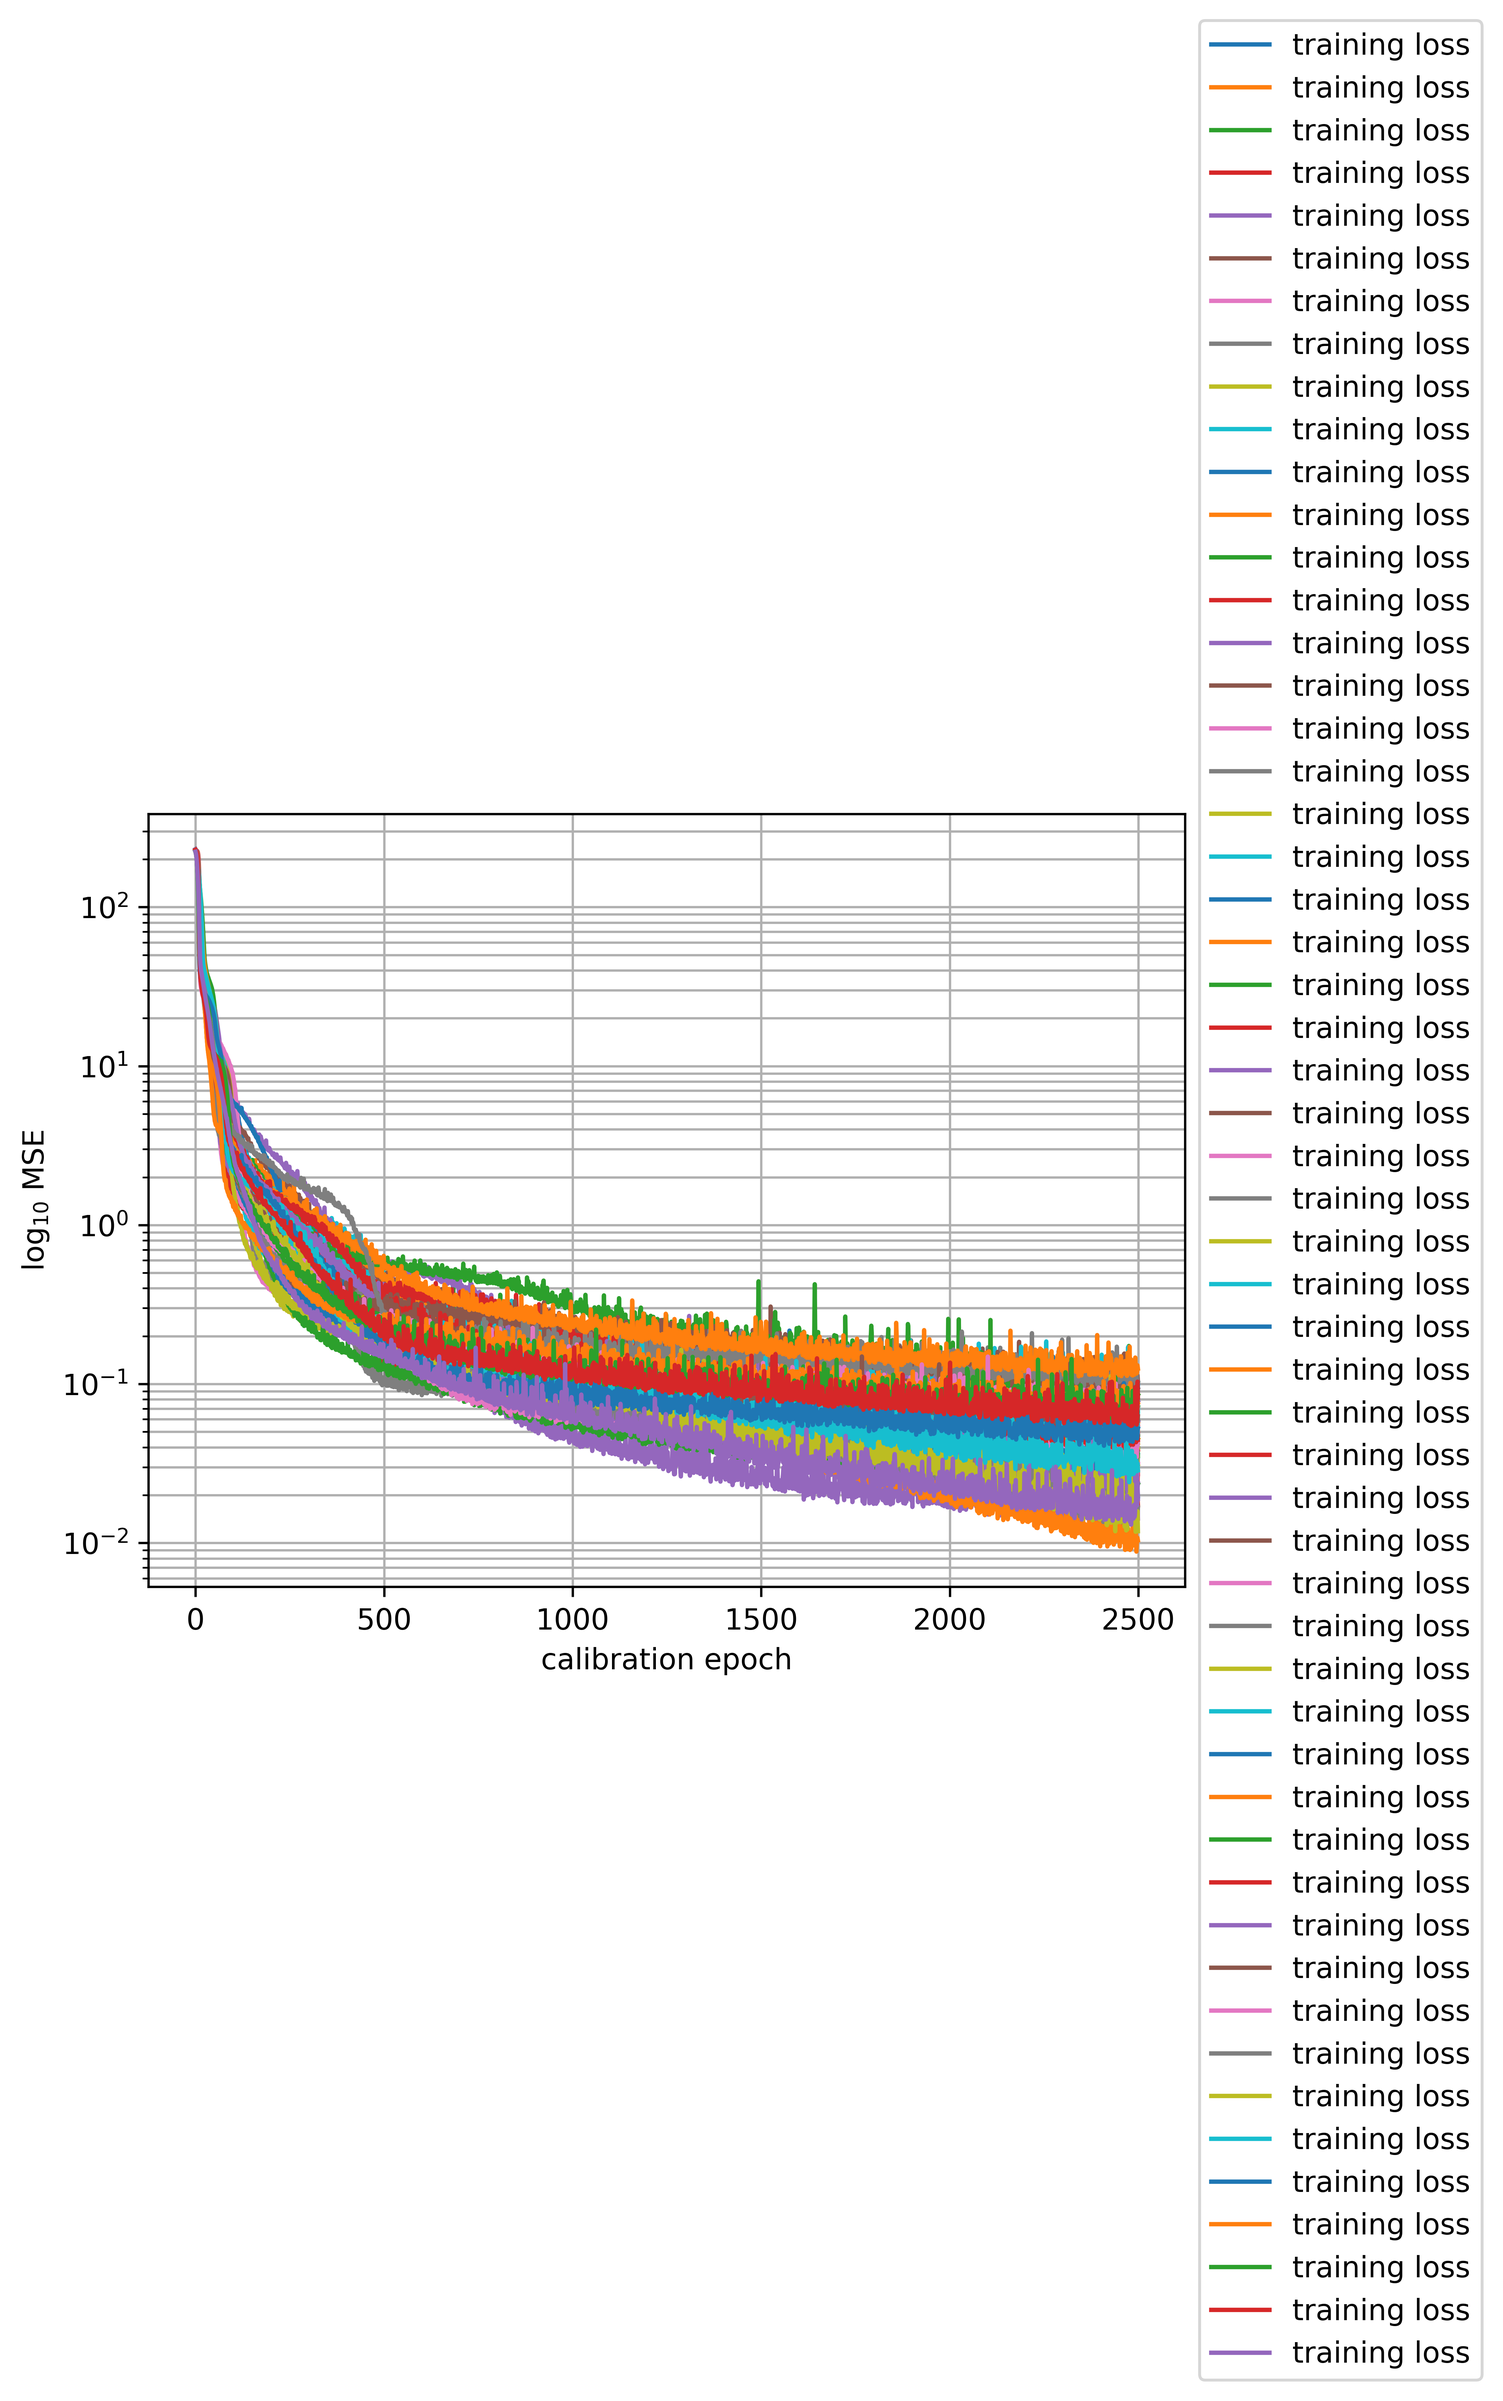
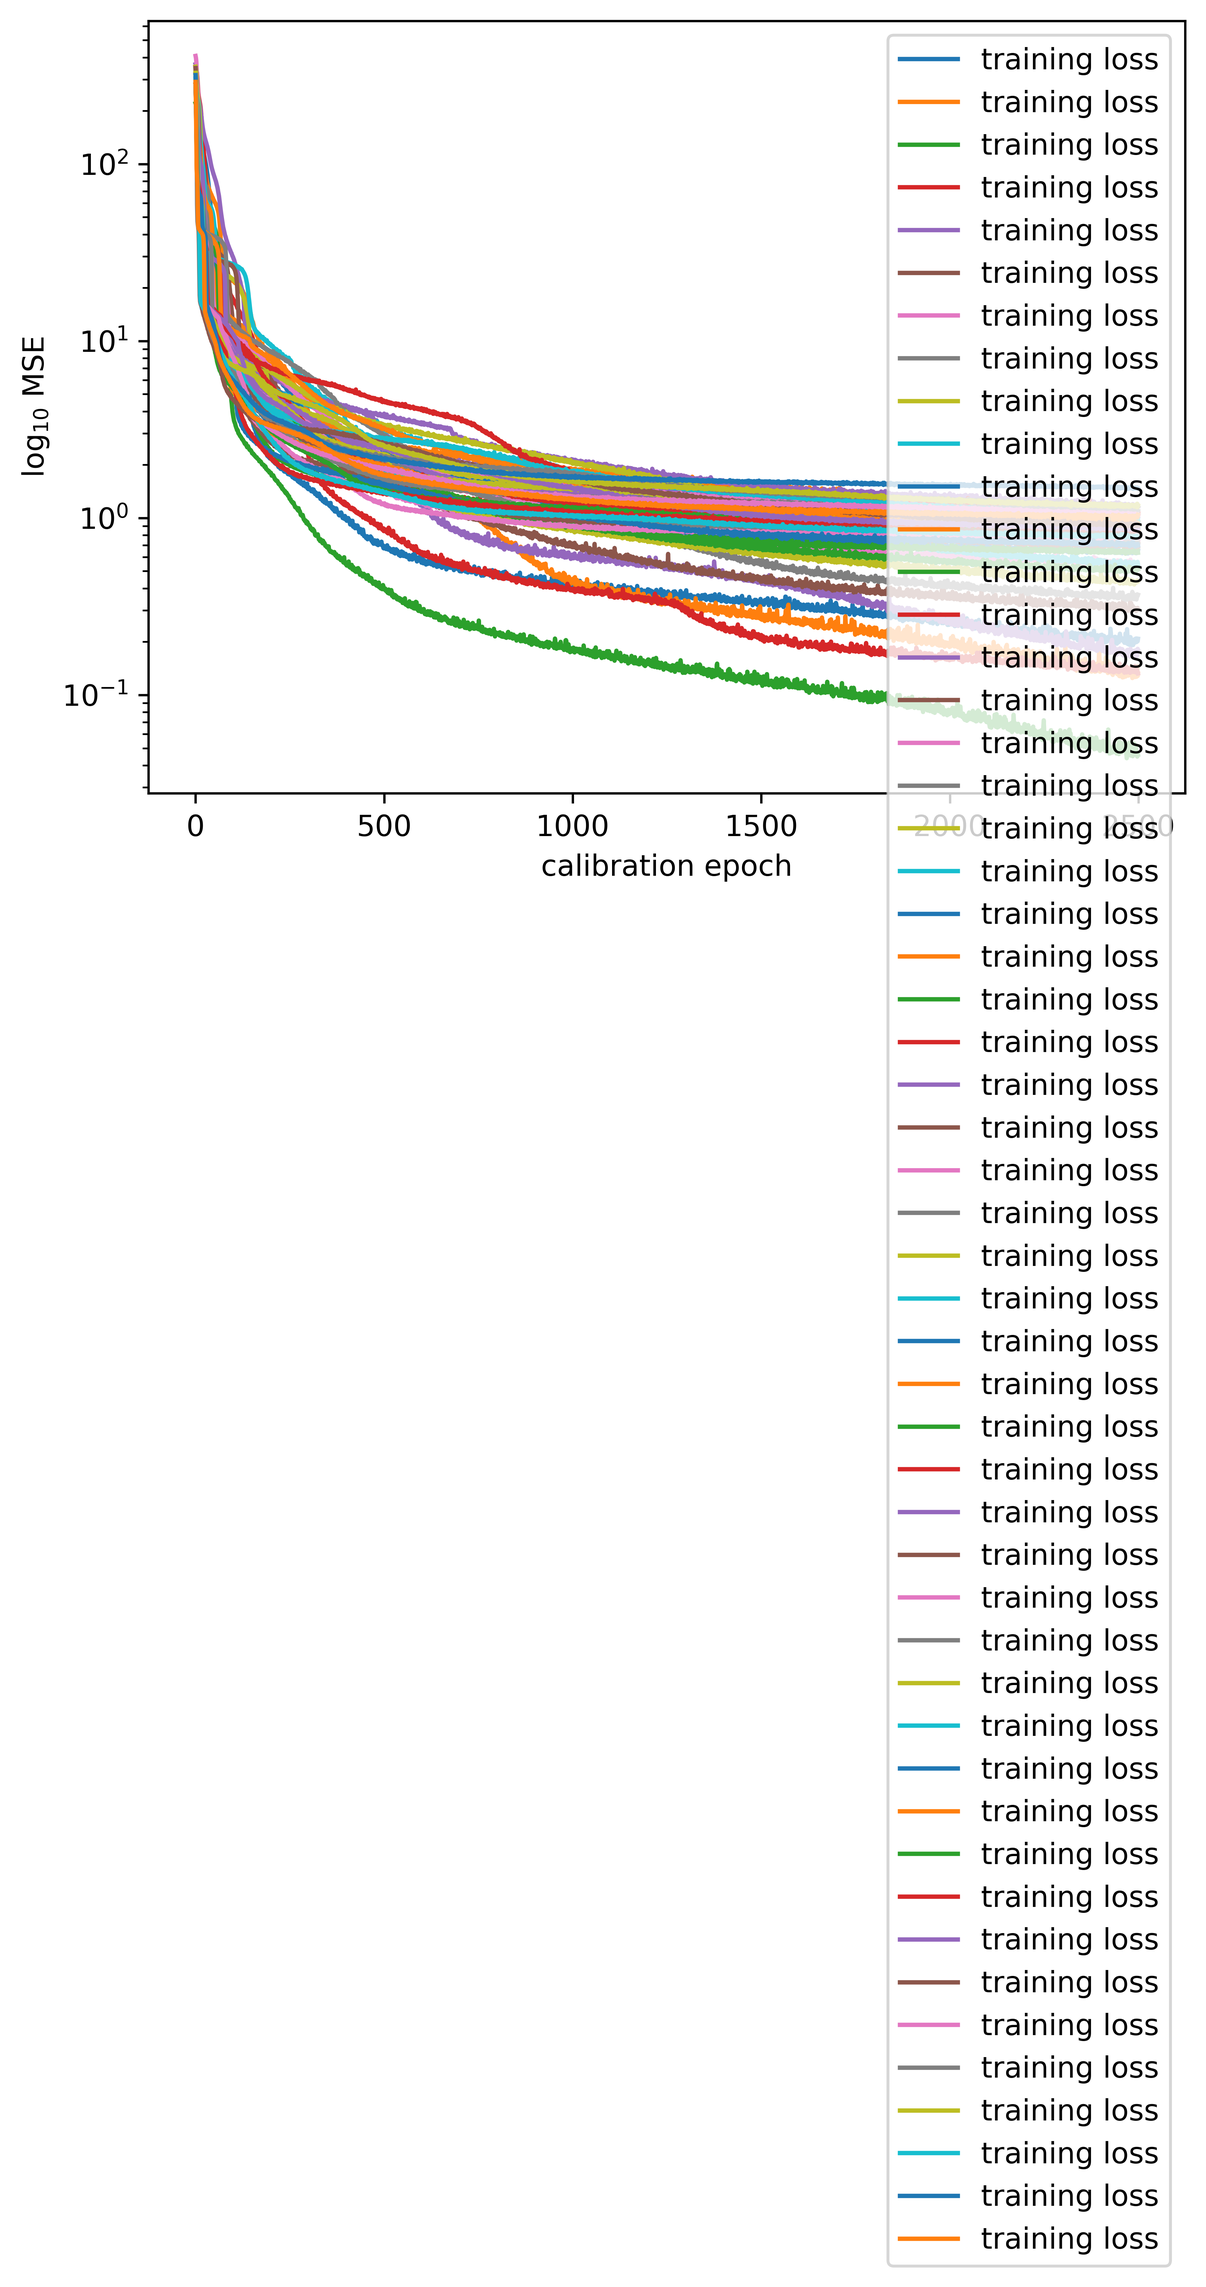
Reworking of training.py, correction of smaller error

diff --git a/Task_02/02_hyperelasticity_I/training.py b/Task_02/02_hyperelasticity_I/training.py
@@ -13,30 +13,31 @@ import data as ld
 # %% class definition
 class PhysicsAugmented:
     ''' Class for training a physics augmented neutral network
-    calling order: initialize --> load --> preprocess --> calibrate --> evaluate '''
-    def __init__(self, loss_weights, epochs, verbose='2'):
+    calling order: initialize --> preprocess --> calibrate --> evaluate '''
+    def __init__(self, loss_weights, paths, epochs, verbose=2):
         self.loss_weights = loss_weights
-        self.model = lm.main(r_type='PhysicsAugmented', loss_weights=self.loss_weights)
         self.epochs = epochs
         self.verbose = verbose
+        self.xs, self.ys, self.dys, self.batch_sizes = self.__load(paths)
+        self.sample_weights = np.ones(np.sum(self.batch_sizes))
+        self.model = lm.main(r_type='PhysicsAugmented', loss_weights=self.loss_weights)
 
-    def load(self, paths):
+    def __load(self, paths):
         ''' Load data for training or testing from a path '''
-        self.xs, _, _, self.batch_sizes = ld.load_stress_strain_data(paths)
+        xs, _, _, batch_sizes = ld.load_stress_strain_data(paths)
 
         # compute potential and stress using analytical model
-        self.ys = ld.W(self.xs)
-        self.dys = ld.P(ld.W)(self.xs)
+        ys = ld.W(xs)
+        dys = ld.P(ld.W)(xs)
+        return xs, ys, dys, batch_sizes
 
     def preprocess(self):
         ''' Preforms necessary pre-preocessing steps before model calibration '''
         # apply load weighting strategy
-        self.sw = ld.get_sample_weights(self.xs, self.batch_sizes)
-
+        self.sample_weights = ld.get_sample_weights(self.xs, self.batch_sizes)
         # reshape inputs
         self.ys = tf.reshape(self.ys,-1)
 
-
     def calibrate(self):
         ''' Preform model training '''
         t1 = now()
@@ -46,7 +47,7 @@ class PhysicsAugmented:
         h = self.model.fit([self.xs], [self.ys, self.dys],
                     epochs=self.epochs,
                     verbose=self.verbose,
-                    sample_weight=self.sw)
+                    sample_weight=self.sample_weights)
 
         t2 = now()
         print('it took', t2 - t1, '(sec) to calibrate the model')
@@ -54,118 +55,11 @@ class PhysicsAugmented:
         # plot some results
         fig = plt.figure(1, dpi=600)
         plt.semilogy(h.history['loss'], label='training loss')
-        plt.grid(which='both')
         plt.xlabel('calibration epoch')
         plt.ylabel('log$_{10}$ MSE')
+        plt.grid(which='both')
         plt.legend()
         fig.savefig('images/loss.png', dpi=fig.dpi, bbox_inches='tight')
-
-
-    def evaluate(self, paths, showplots=False):
-        ''' Perform evaluation '''
-        # initialization
-        losses = np.zeros([len(paths), 3])
-
-        # evaluate normalization criterion
-        ys_I, dys_I = self.model.predict(np.array([np.identity(3)]))
-        print(f'\nW(I) =\t{ys_I[0,0]}')
-        print(f'P(I) =\t{dys_I[0,0]}\n\t{dys_I[0,1]}\n\t{dys_I[0,2]}')
-
-        # iteration over load paths
-        for i, path in enumerate(paths):
-            xs, _, _, _ = ld.load_stress_strain_data([path])
-
-            # compute potential and stress using analytical model
-            ys = ld.W(xs)
-            dys = ld.P(ld.W)(xs)
-
-            # predict using the trained model
-            ys_pred, dys_pred = self.model.predict(xs)
-            P = dys
-            P_pred = dys_pred
-
-            # Potential correction - for P training
-            # shift reference value ys by normalization offset
-            # to ensure reasonable results from tensorflow evalutation function
-            if self.loss_weights == [0, 1]:
-                # normalization
-                ys_eval = ys + ys_I[0,0]
-                ys_pred = ys_pred - ys_I[0,0]
-            else:
-                # no normalization
-                ys_eval = ys
-
-            # Evaluate the model on the test data using `evaluate`
-            #print(f'\n{path}')
-            losses[i,:] = self.model.evaluate(xs, [ys_eval, dys], verbose=0)
-
-            if showplots:
-                # plot right Chauchy-Green tensor
-                Cs = tf.einsum('ikj,ikl->ijl',xs,xs)
-                # pl.plot_right_cauchy_green_tensor(ld.reshape_C(Cs), titles[i], fnames[i])
-                pl.plot_right_cauchy_green_tensor(ld.reshape_C(Cs), title=path, fname=None)
-                # plot potential
-                pl.plot_potential_prediction(ys, ys_pred, title=path, fname=None)
-
-                # plot stress tensor
-                pl.plot_stress_tensor_prediction(P, P_pred, title=path, fname=None)
-
-        return losses
-
-    def print_model_parameters(self):
-        ''' Displays model parameters '''
-        self.model.summary()
-        for idx, layer in enumerate(self.model.layers):
-            print(layer.name, layer)
-            #print(layer.weights, "\n")
-            print(layer.get_weights())
-
-
-
-class Naive:
-    ''' Class for training a feed forward neutral network
-    calling order: initialize --> load --> preprocess --> calibrate --> evaluate '''
-    def __init__(self, epochs, verbose='2'):
-        self.loss_weights = [1, 0]
-        self.model = lm.main(r_type='Naive', loss_weights=self.loss_weights)
-        self.epochs = epochs
-        self.verbose = verbose
-
-    def load(self, paths):
-        ''' Load data for training or testing from a path '''
-        self.xs, _, self.ys, self.batch_sizes = ld.load_stress_strain_data(paths)
-        self.dys = np.zeros(self.xs.shape) # placeholder
-
-    def preprocess(self):
-        ''' Preforms necessary pre-preocessing steps before model calibration '''
-        # apply load weighting strategy
-        self.sw = ld.get_sample_weights(self.xs, self.batch_sizes)
-        #sw = np.ones(np.sum(batch_sizes))
-
-
-    def calibrate(self):
-        ''' Preform model training '''
-        t1 = now()
-        print(t1)
-
-        tf.keras.backend.set_value(self.model.optimizer.learning_rate, 0.002)
-        h = self.model.fit([self.xs], [self.ys, self.dys],
-                    epochs=self.epochs,
-                    verbose=self.verbose,
-                    sample_weight=self.sw)
-
-        t2 = now()
-        print('it took', t2 - t1, '(sec) to calibrate the model')
-
-        # plot some results
-        fig = plt.figure(1, dpi=600)
-        plt.semilogy(h.history['loss'], label='training loss')
-        plt.grid(which='both')
-        plt.xlabel('calibration epoch')
-        plt.ylabel('log$_{10}$ MSE')
-        plt.legend(loc='center left', bbox_to_anchor=(1, 0.5))
-        fig.savefig('images/loss.png', dpi=fig.dpi, bbox_inches='tight')
-
 
     def evaluate(self, paths, showplots=False):
         ''' Perform evaluation '''
@@ -179,31 +73,115 @@ class Naive:
 
         # iteration over load paths
         for i, path in enumerate(paths):
-            xs, _, ys, [batch_size] = ld.load_stress_strain_data([path])
+            # print(f'\n{path}')
+            xs, ys, dys, _ = self.__load([path])
 
             # predict using the trained model
-            ys_pred, _ = self.model.predict(xs)
-            P = ys
-            P_pred = ys_pred
+            ys_pred, dys_pred = self.model.predict(xs)
 
-            # Evaluate the model on the test data using `evaluate`
-            #results = model.evaluate(xs, [ys, dys[:batch_size]])
-            losses[i,:] = self.model.evaluate(xs, [ys, self.dys[:batch_size]], verbose=0)
+            # Potential correction - for P training
+            # shift reference value ys by normalization offset
+            # to ensure reasonable results from tensorflow evalutation function
+            if self.loss_weights == [0, 1]:
+                # normalization
+                ys_eval = ys + ys_I[0,0]
+                ys_pred = ys_pred - ys_I[0,0]
+            else:
+                # no normalization
+                ys_eval = ys
+
+            losses[i,:] = self.model.evaluate(xs, [ys_eval, dys], verbose=0)
 
             if showplots:
                 # plot right Chauchy-Green tensor
                 Cs = tf.einsum('ikj,ikl->ijl',xs,xs)
                 # pl.plot_right_cauchy_green_tensor(ld.reshape_C(Cs), titles[i], fnames[i])
                 pl.plot_right_cauchy_green_tensor(ld.reshape_C(Cs), title=path, fname=None)
-                # plot stress tensor
-                pl.plot_stress_tensor_prediction(P, P_pred, title=path, fname=None)
+                # plot potential
+                pl.plot_potential_prediction(ys, ys_pred, title=path, fname=None)
 
+                # plot stress tensor
+                pl.plot_stress_tensor_prediction(dys, dys_pred, title=path, fname=None)
         return losses
 
-    def print_model_parameters(self):
-        ''' Displays model parameters '''
-        self.model.summary()
-        for idx, layer in enumerate(self.model.layers):
-            print(layer.name, layer)
-            #print(layer.weights, "\n")
-            print(layer.get_weights())
+
+class Naive:
+    ''' Class for training a feed forward neutral network
+    calling order: initialize --> preprocess --> calibrate --> evaluate '''
+    def __init__(self, paths, epochs, verbose=2):
+        self.loss_weights = [1, 0]
+        self.epochs = epochs
+        self.verbose = verbose
+        self.xs, self.ys, self.dys, self.batch_sizes = self.__load(paths)
+        self.sample_weights = np.ones(np.sum(self.batch_sizes))
+        self.model = lm.main(r_type='Naive', loss_weights=self.loss_weights)
+
+    def __load(self, paths):
+        ''' Load data for training or testing from a path '''
+        xs, _, _, batch_sizes = ld.load_stress_strain_data(paths)
+
+        # compute potential and stress using analytical model
+        ys = ld.P(ld.W)(xs)
+        dys = np.zeros(xs.shape) # placeholder
+        return xs, ys, dys, batch_sizes
+
+    def preprocess(self):
+        ''' Preforms necessary pre-preocessing steps before model calibration '''
+        pass
+
+    def calibrate(self):
+        ''' Preform model training '''
+        t1 = now()
+        print(t1)
+
+        tf.keras.backend.set_value(self.model.optimizer.learning_rate, 0.002)
+        h = self.model.fit([self.xs], [self.ys, self.dys],
+                    epochs=self.epochs,
+                    verbose=self.verbose,
+                    sample_weight=self.sample_weights)
+
+        t2 = now()
+        print('it took', t2 - t1, '(sec) to calibrate the model')
+
+        # plot some results
+        fig = plt.figure(1, dpi=600)
+        plt.semilogy(h.history['loss'], label='training loss')
+        plt.grid(which='both')
+        plt.xlabel('calibration epoch')
+        plt.ylabel('log$_{10}$ MSE')
+        plt.legend()
+        fig.savefig('images/loss.png', dpi=fig.dpi, bbox_inches='tight')
+
+    def evaluate(self, paths, showplots=False):
+        ''' Perform evaluation '''
+        # initialization
+        losses = np.zeros([len(paths), 3])
+
+        # evaluate normalization criterion
+        ys_I, dys_I = self.model.predict(np.array([np.identity(3)]))
+        #print(f'\nW(I) =\t{ys_I[0,0]}')
+        #print(f'P(I) =\t{dys_I[0,0]}\n\t{dys_I[0,1]}\n\t{dys_I[0,2]}')
+
+        # iteration over load paths
+        for i, path in enumerate(paths):
+            #print(f'\n{path}')
+            xs, ys, dys, _ = self.__load([path])
+
+            # predict using the trained model
+            ys_pred, _ = self.model.predict(xs)
+            losses[i,:] = self.model.evaluate(xs, [ys, dys], verbose=0)
+
+            if showplots:
+                # plot right Chauchy-Green tensor
+                Cs = tf.einsum('ikj,ikl->ijl',xs,xs)
+                pl.plot_right_cauchy_green_tensor(ld.reshape_C(Cs), title=path, fname=None)
+                # plot stress tensor
+                pl.plot_stress_tensor_prediction(ys, ys_pred, title=path, fname=None)
+        return losses
+
+def print_model_parameters(model):
+    ''' Displays model parameters '''
+    model.summary()
+    for layer in model.layers:
+        print(layer.name, layer)
+        print(layer.get_weights())

diff --git a/Task_02/02_hyperelasticity_I/main_concentric_sampling.py b/Task_02/02_hyperelasticity_I/main_concentric_sampling.py
@@ -18,24 +18,26 @@ import numpy as np
 from matplotlib import pyplot as plt
 import tensorflow as tf
 import datetime
-import pandas as pd
 now = datetime.datetime.now
 
 # %% Own modules
 import data as ld
-import models as lm
-import plots as pl
 import training
 
 # %%
-# parameters
+'''
+Training
+
+'''
+
+
 FNUM = 100
 test_train_split = np.array([0.1,0.2,0.3,0.4,0.5,0.6,0.7,0.8,0.9,0.95,0.99])
 #test_train_split = np.array([0.1,0.2])
 JMAX = 5
 
-loss_weights = [0, 1]
-epochs = 200
+loss_weights = [0, 1] # only used for physics augmented training
+epochs = 2500
 verbose = 0
 
 # initialization
@@ -47,7 +49,8 @@ for i, split in enumerate(test_train_split):
     train_losses_tmp = np.zeros([JMAX,3])
     test_losses_tmp = np.zeros([JMAX,3])
 
-    for j in range(JMAX):
+    for j in range(JMAX): 
+        print(f'Model {i * JMAX + (j + 1)}/{test_train_split.size * JMAX}')
         # create training and test split
         fnum = tf.random.shuffle(np.arange(1,FNUM + 1))
         ftrain, ftest = tf.split(fnum, [int(split * (FNUM + 1)), -1])
@@ -56,12 +59,11 @@ for i, split in enumerate(test_train_split):
         train_paths = ld.generate_concentric_paths(ftrain)
         test_paths = ld.generate_concentric_paths(ftest)
 
-        # tmodel = training.PhysicsAugmented(loss_weights=loss_weights,
+        # tmodel = training.PhysicsAugmented(paths=train_paths, loss_weights=loss_weights,
         #             epochs=epochs,
         #             verbose=verbose)
-        tmodel = training.Naive(epochs=epochs, verbose=verbose)
+        tmodel = training.Naive(paths=train_paths, epochs=epochs, verbose=verbose)
 
-        tmodel.load(train_paths)
         tmodel.preprocess()
         tmodel.calibrate()
 
@@ -74,8 +76,12 @@ for i, split in enumerate(test_train_split):
 
 t2 = now()
 print('it took', t2 - t1, '(sec) to calibrate and evaluate all models')
+
 #%%
-# plot
+'''
+Plots
+
+'''
 fig = plt.figure(dpi=600)
 plt.semilogy(test_train_split,mean_train_losses[:,1] + mean_train_losses[:,2], marker='o', label='loss')
 plt.semilogy(test_train_split,mean_train_losses[:,1], marker='o', label='W loss')
@@ -106,6 +112,6 @@ Model parameters
 
 """
 
-#tmodel.print_model_parameters()
+training.print_model_parameters(tmodel.model)
 
 # %%
